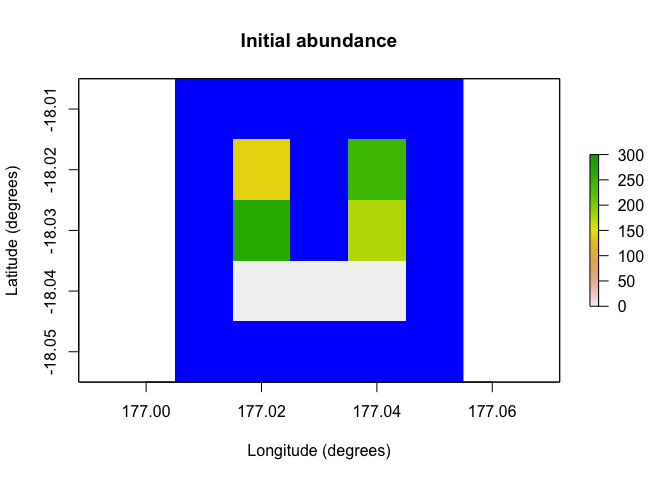
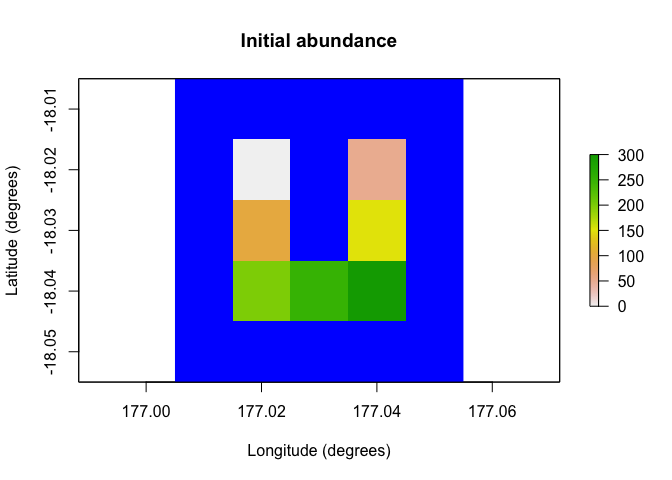
readme update

Changed region(s): [[0.3438, 0.2812, 0.625, 0.6875]]

diff --git a/README.md b/README.md
@@ -67,7 +67,7 @@ coordinates <- data.frame(x = rep(seq(177.01, 177.05, 0.01), 5),
 template_raster <- Region$new(coordinates = coordinates)$region_raster # full extent
 template_raster[][-c(7, 9, 12, 14, 17:19)] <- NA # make U Island
 region <- Region$new(template_raster = template_raster)
-initial_abundance <-   c(round(stats::runif(4, 100, 300)), 0, 0, 0)
+initial_abundance <- seq(0, 300, 50)
 raster::plot(region$raster_from_values(initial_abundance), 
              main = "Initial abundance", xlab = "Longitude (degrees)", 
              ylab = "Latitude (degrees)", zlim = c(0, 300), colNA = "blue")
@@ -84,10 +84,10 @@ pop_model <- PopulationModel$new(
   populations = 7,
   initial_abundance = initial_abundance,
   stage_matrix = matrix(c(0, 2.5, # Leslie/Lefkovitch matrix
-                          0.5, 0.8), nrow = 2, ncol = 2, byrow = TRUE),
+                          0.8, 0.5), nrow = 2, ncol = 2, byrow = TRUE),
   carrying_capacity = rep(200, 7),
   density_dependence = "logistic",
-  dispersal = (!diag(nrow = 7, ncol = 7))*0.2,
+  dispersal = (!diag(nrow = 7, ncol = 7))*0.05,
   result_stages = c(1, 2))
 
 # Run single simulation
@@ -95,47 +95,47 @@ results <- population_simulator(pop_model)
 results # examine
 #> $all
 #> $all$abundance
-#> [1]  800 1041 1102 1213 1263
+#> [1] 1071 1064 1218 1272 1277
 #> 
 #> $all$abundance_stages
 #> $all$abundance_stages[[1]]
-#> [1] 479 666 656 733 759
+#> [1] 666 620 743 781 764
 #> 
 #> $all$abundance_stages[[2]]
-#> [1] 321 375 446 480 504
+#> [1] 405 444 475 491 513
 #> 
 #> 
 #> 
 #> $abundance
 #>      [,1] [,2] [,3] [,4] [,5]
-#> [1,]   99  148  142  175  184
-#> [2,]   84  164  159  163  199
-#> [3,]   91  163  161  171  182
-#> [4,]  110  154  170  181  184
-#> [5,]  161  146  146  164  169
-#> [6,]  134  125  161  187  168
-#> [7,]  121  141  163  172  177
+#> [1,]   48  101  140  176  196
+#> [2,]   96  136  152  192  177
+#> [3,]  152  156  198  177  186
+#> [4,]  183  165  188  186  196
+#> [5,]  165  171  171  202  181
+#> [6,]  201  176  191  163  166
+#> [7,]  226  159  178  176  175
 #> 
 #> $abundance_stages
 #> $abundance_stages[[1]]
 #>      [,1] [,2] [,3] [,4] [,5]
-#> [1,]   61   88   90  113  115
-#> [2,]   44  112   90  102  124
-#> [3,]   61  106   94   93  106
-#> [4,]   71  106  105  114  113
-#> [5,]  100   88   80  100   92
-#> [6,]   72   71  100  110   93
-#> [7,]   70   95   97  101  116
+#> [1,]   27   64   81  104  114
+#> [2,]   49   83   92  124  109
+#> [3,]  102   86  124  101  116
+#> [4,]  117   92  118  117  114
+#> [5,]   92  102  102  122  115
+#> [6,]  132   98  123  103   92
+#> [7,]  147   95  103  110  104
 #> 
 #> $abundance_stages[[2]]
 #>      [,1] [,2] [,3] [,4] [,5]
-#> [1,]   38   60   52   62   69
-#> [2,]   40   52   69   61   75
-#> [3,]   30   57   67   78   76
-#> [4,]   39   48   65   67   71
-#> [5,]   61   58   66   64   77
-#> [6,]   62   54   61   77   75
-#> [7,]   51   46   66   71   61
+#> [1,]   21   37   59   72   82
+#> [2,]   47   53   60   68   68
+#> [3,]   50   70   74   76   70
+#> [4,]   66   73   70   69   82
+#> [5,]   73   69   69   80   66
+#> [6,]   69   78   68   60   74
+#> [7,]   79   64   75   66   71
 raster::plot(region$raster_from_values(results$abundance[,5]),
              main = "Final abundance", xlab = "Longitude (degrees)", 
              ylab = "Latitude (degrees)", zlim = c(0, 300), colNA = "blue")
